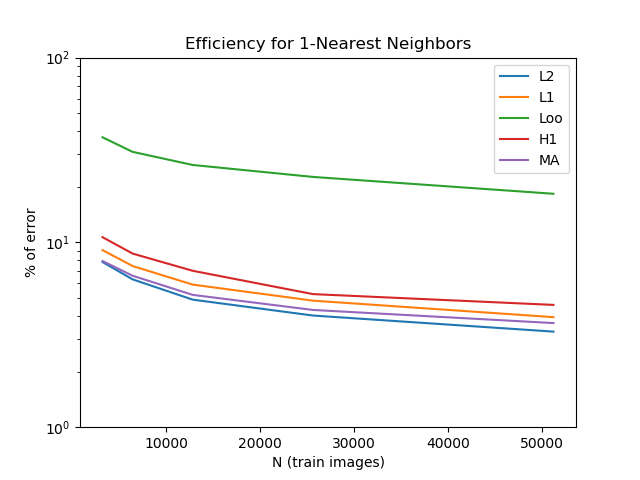
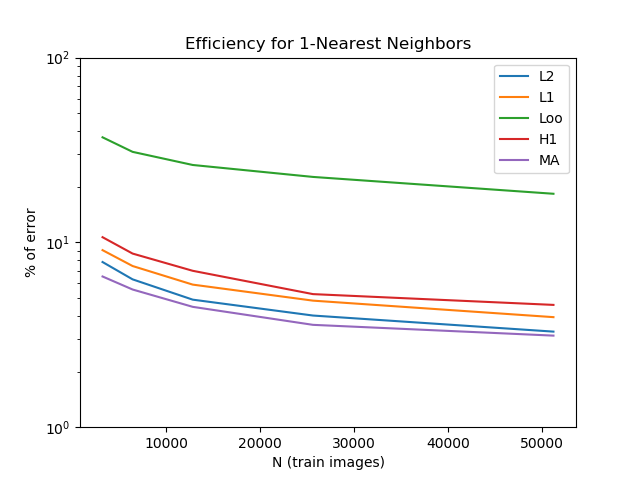
Fixed a bug with the MA classifier.

Changed region(s): [[0.1562, 0.5312, 0.875, 0.7188]]

diff --git a/classify.py b/classify.py
@@ -93,7 +93,13 @@ if __name__ == "__main__":
 		x_test = repackage(x_test)
 		
 		metric=skn.dist_metrics.EuclideanDistance()
-	
+
+	if dist_name == "MA_test":
+		x_train=x_train.reshape((len(x_train),28*28))
+		x_test=x_test.reshape((len(x_test),28*28))
+		metric=skn.dist_metrics.PyFuncDistance(dist_MA_sklearn)
+		
+
 	if dist_name == "MA":
 		
 		def repackage(data):
@@ -102,8 +108,9 @@ if __name__ == "__main__":
 			'''
 			grad_phi = []
 			for m in data:
-				phi = np.zeros(m.shape)
-				solve_poisson(m,phi)
+				fm=m*(1.0/abs(m).sum((0,1)))
+				phi = np.zeros(fm.shape)
+				solve_poisson(fm,phi)
 				
 				grad_phi = grad_phi + np.gradient(phi)
 			
